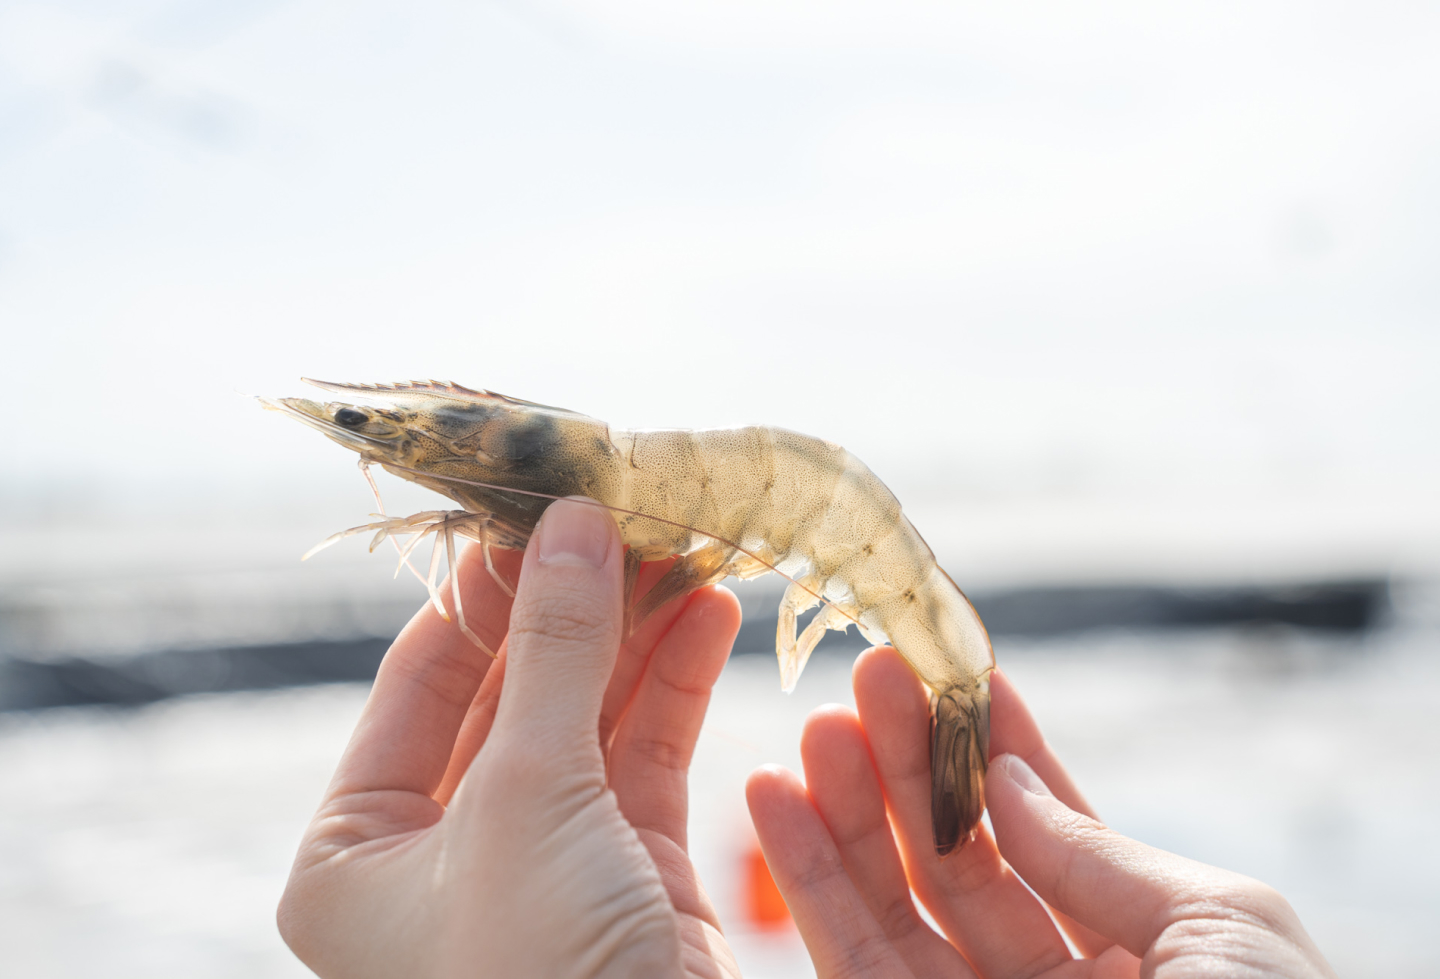
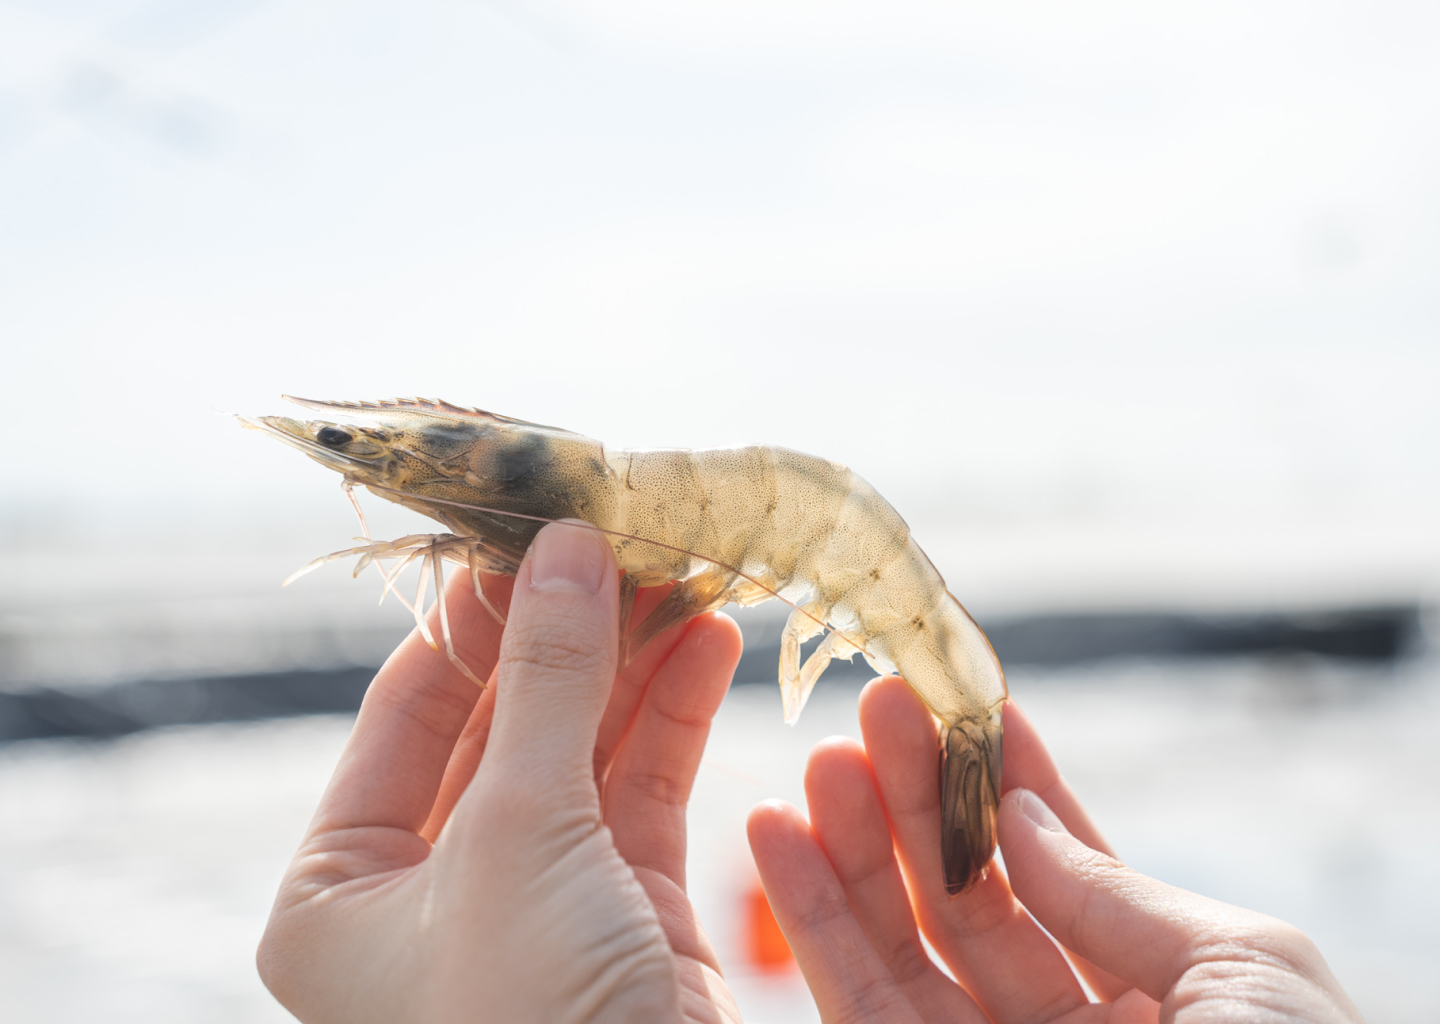
coverphoto

diff --git a/css/style.scss b/css/style.scss
@@ -27,18 +27,18 @@ $main_color:#e07d6a;
 @media (max-width: 480px) {
 
     .labtoppic,
-    .phonepic {
+    .tabletpic {
         display: none;
     }
 
-    .tabletpic {
+    .phonepic {
         display: block;
        
             // transform: scale(0.7);
         
     }
     .logo {
-        width: 216px;
+        width: 170px;
     }
 }
 
@@ -87,21 +87,25 @@ $main_color:#e07d6a;
 .cover-area {
     position: relative;
 
-    height: 100vh;
+    // height: 100vh;
 
     .pic {
 
         // height: 100%;
+        height: 100vh;
+        width: 100vw;
         max-height: 100vh;
-        display: flex;
-        align-items: center;
-        justify-content: center;
-        position: relative;
+        // display: flex;
+        // align-items: center;
+        // justify-content: center;
+        // position: relative;
         
         // position: relative;
 
-        img {
+        .labtoppic,.tabletpic,.phonepic {
+            transform: scale(1.1);
             width: 100%;
+            // height: 100%;
             
         }
 
@@ -116,8 +120,10 @@ $main_color:#e07d6a;
     .logowrap {
 
         position: absolute;
-        width: 100vw;
-        height: 100vh;
+        width: 100%;
+        height: 100%;
+        // width: 100vw;
+        // height: 100vh;
        
         left: 0;
         top: 0;

diff --git a/css/style.css b/css/style.css
@@ -22,14 +22,14 @@
 
 @media (max-width: 480px) {
   .labtoppic,
-  .phonepic {
+  .tabletpic {
     display: none;
   }
-  .tabletpic {
+  .phonepic {
     display: block;
   }
   .logo {
-    width: 216px;
+    width: 170px;
   }
 }
 
@@ -69,31 +69,24 @@
 
 .cover-area {
   position: relative;
-  height: 100vh;
 }
 
 .cover-area .pic {
+  height: 100vh;
+  width: 100vw;
   max-height: 100vh;
-  display: -webkit-box;
-  display: -ms-flexbox;
-  display: flex;
-  -webkit-box-align: center;
-      -ms-flex-align: center;
-          align-items: center;
-  -webkit-box-pack: center;
-      -ms-flex-pack: center;
-          justify-content: center;
-  position: relative;
 }
 
-.cover-area .pic img {
+.cover-area .pic .labtoppic, .cover-area .pic .tabletpic, .cover-area .pic .phonepic {
+  -webkit-transform: scale(1.1);
+          transform: scale(1.1);
   width: 100%;
 }
 
 .cover-area .logowrap {
   position: absolute;
-  width: 100vw;
-  height: 100vh;
+  width: 100%;
+  height: 100%;
   left: 0;
   top: 0;
   display: -webkit-box;

diff --git a/index.html b/index.html
@@ -48,13 +48,13 @@
             <div class="pic">
                 <img class="labtoppic" src="./assests/mainpage_cover_labtop.jpg" alt="">
                 <img class="tabletpic" src="./assests/mainpage_cover_tablet.jpg" alt="">
-                <img class="phonepic" src="./assests/mainpage_cover_phone.png" alt="">
-
+                <img class="phonepic" src="./assests/mainpage_cover_phone.jpg" alt="">
+                <div class="logowrap">
+                    <img class="logo" src="./logo.svg" alt="">
+                </div>
             </div>
             <!-- <img class="pic" src="./DSC06261.jpg" alt=""> -->
-            <div class="logowrap">
-                <img class="logo" src="./logo.svg" alt="">
-            </div>
+           
 
 
         </div>
